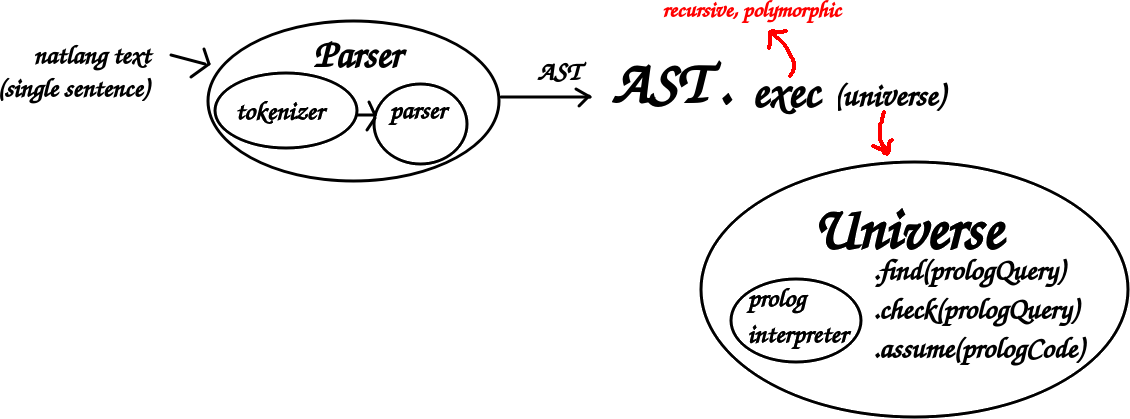
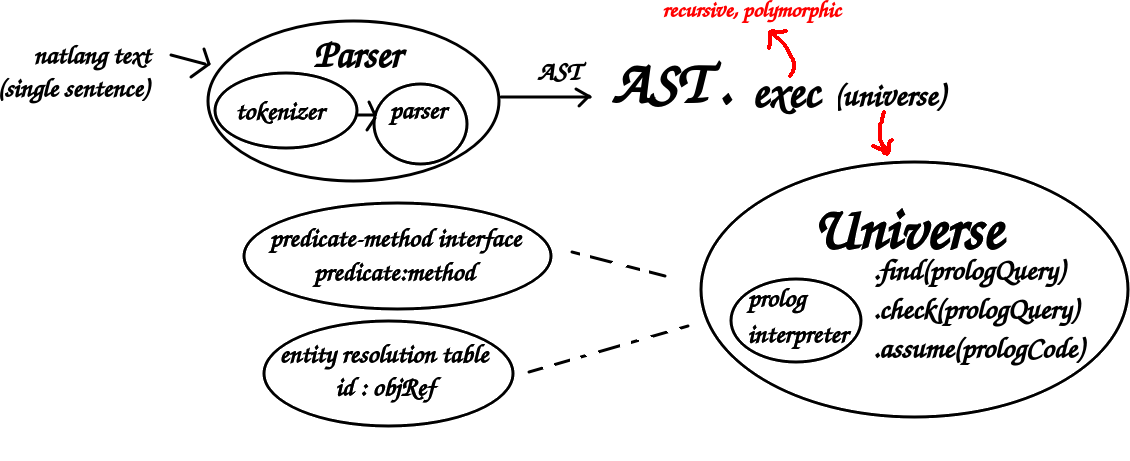
ideassss

diff --git a/semantics.md b/semantics.md
@@ -1,4 +1,4 @@
-Based on a mapping between verbs and methods, and between nouns and objects.
+Based on a mapping between verbs and methods, and between nouns and objects. TDLR: verbs are method wrappers and nouns are object wrappers.
 
 the first array concatenates with the second array
 
@@ -19,3 +19,4 @@ become -> a predicate that assigns new properties to existing entities
 red -> css color
 
 if the button is red, then the ...
+
